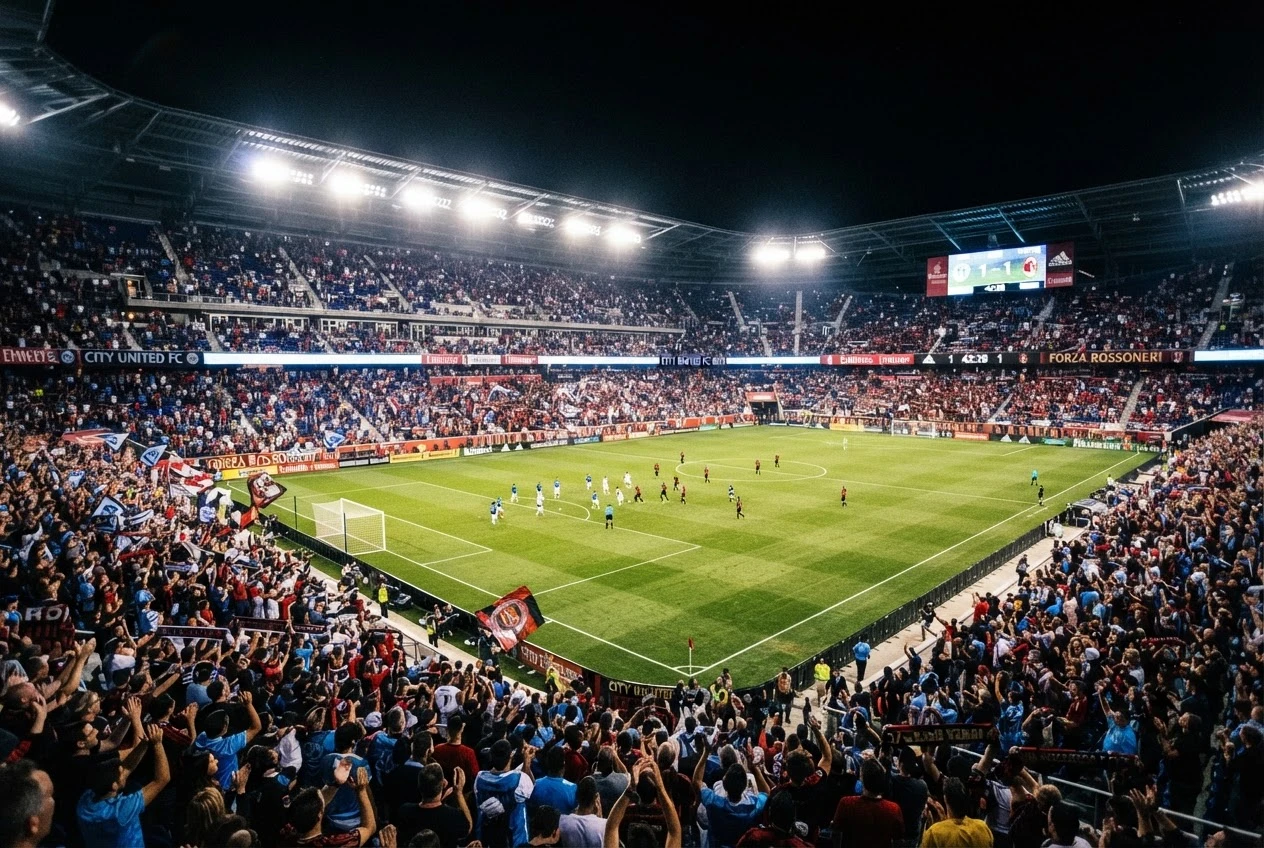
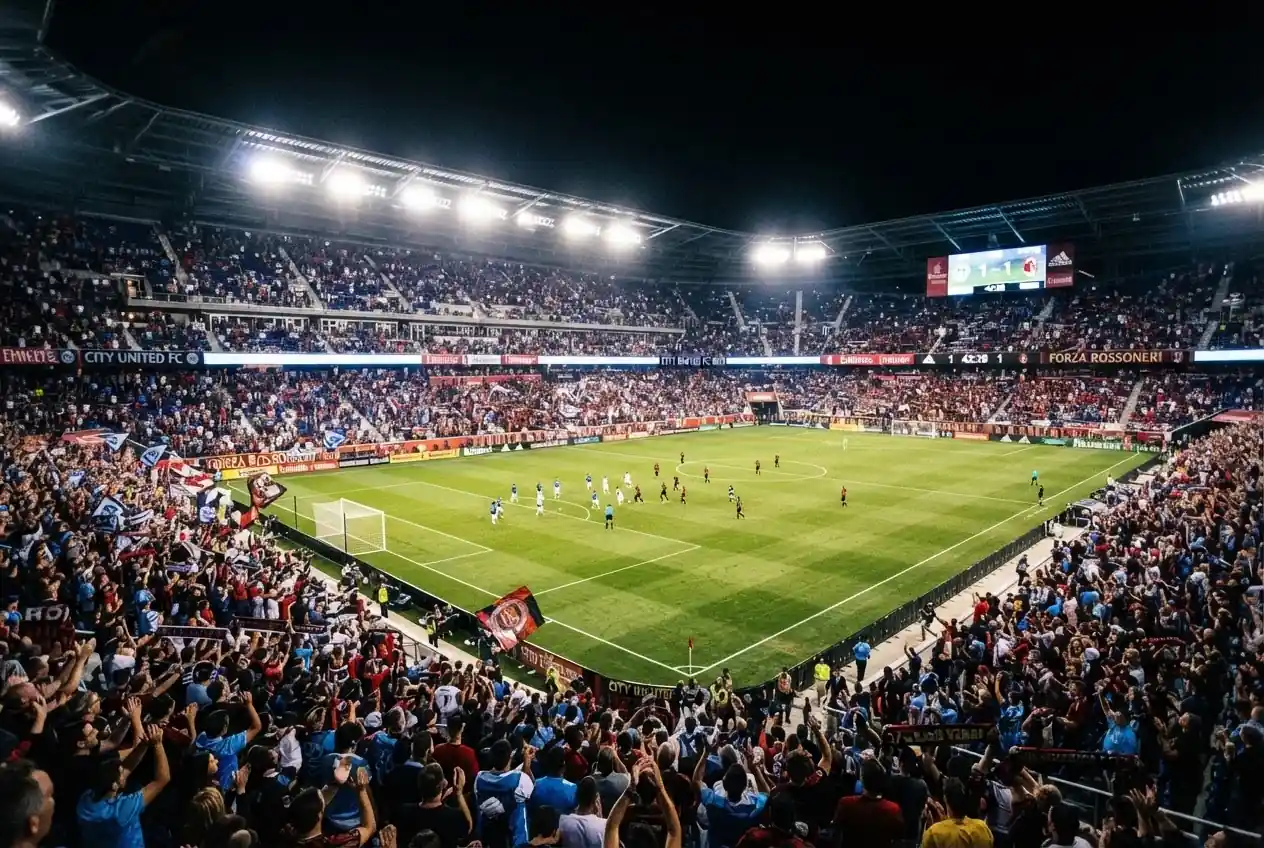
optimized ui

diff --git a/client/src/App.jsx b/client/src/App.jsx
@@ -1,23 +1,27 @@
+import { lazy, Suspense } from "react";
 import { Routes, Route, Navigate } from "react-router-dom";
 import { BookingProvider } from "./context/BookingContext";
 import { ToastProvider } from "./context/ToastContext";
-import EventDetails from "./pages/EventDetails";
-import Home from "./pages/Home";
-import Login from "./components/Auth/Login";
-import DiscoverEvents from "./pages/DiscoverEvents";
-import SeatSelection from "./pages/SeatSelection";
-import Checkout from "./pages/Checkout";
-import BookingSuccess from "./pages/BookingSuccess";
-import MyBookings from "./pages/MyBookings";
-import OrganizerDashboard from "./pages/OrganizerDashboard";
-import CreateEvent from "./pages/CreateEvent";
-import EditEvent from "./pages/EditEvent";
-import MyEvents from "./components/Organizer/MyEvents";
-import OrganizerAnalytics from "./pages/OrganizerAnalytics";
-import OrganizerAttendees from "./pages/OrganizerAttendees";
-import OrganizerDiscounts from "./pages/OrganizerDiscounts";
 import ScrollToTop from "./components/ScrollToTop";
-import NotFound from "./pages/NotFound";
+import LoadingSpinner from "./components/LoadingSpinner";
+
+// Lazy-loaded routes for code splitting
+const Home = lazy(() => import("./pages/Home"));
+const Login = lazy(() => import("./components/Auth/Login"));
+const DiscoverEvents = lazy(() => import("./pages/DiscoverEvents"));
+const EventDetails = lazy(() => import("./pages/EventDetails"));
+const SeatSelection = lazy(() => import("./pages/SeatSelection"));
+const Checkout = lazy(() => import("./pages/Checkout"));
+const BookingSuccess = lazy(() => import("./pages/BookingSuccess"));
+const MyBookings = lazy(() => import("./pages/MyBookings"));
+const OrganizerDashboard = lazy(() => import("./pages/OrganizerDashboard"));
+const CreateEvent = lazy(() => import("./pages/CreateEvent"));
+const EditEvent = lazy(() => import("./pages/EditEvent"));
+const MyEvents = lazy(() => import("./components/Organizer/MyEvents"));
+const OrganizerAnalytics = lazy(() => import("./pages/OrganizerAnalytics"));
+const OrganizerAttendees = lazy(() => import("./pages/OrganizerAttendees"));
+const OrganizerDiscounts = lazy(() => import("./pages/OrganizerDiscounts"));
+const NotFound = lazy(() => import("./pages/NotFound"));
 
 const ProtectedRoute = ({ children, allowedRoles }) => {
   const token = localStorage.getItem("evently_token");
@@ -40,108 +44,110 @@ const App = () => {
       <BookingProvider>
         <ToastProvider>
           <ScrollToTop />
-        <Routes>
-          <Route path="/" element={<Home />} />
-          <Route path="/login" element={<Login />} />
-          <Route path="/signup" element={<Login />} />
-          <Route path="/events">
-            <Route index element={<DiscoverEvents />} />
-            <Route path=":id" element={<EventDetails />} />
-            <Route path=":id/seats" element={<SeatSelection />} />
-            <Route
-              path=":id/seats/checkout"
-              element={
-                <ProtectedRoute>
-                  <Checkout />
-                </ProtectedRoute>
-              }
-            />
-            <Route
-              path=":id/seats/success"
-              element={
-                <ProtectedRoute>
-                  <BookingSuccess />
-                </ProtectedRoute>
-              }
-            />
-          </Route>
+          <Suspense fallback={<LoadingSpinner message="Loading page..." fullScreen={true} />}>
+            <Routes>
+              <Route path="/" element={<Home />} />
+              <Route path="/login" element={<Login />} />
+              <Route path="/signup" element={<Login />} />
+              <Route path="/events">
+                <Route index element={<DiscoverEvents />} />
+                <Route path=":id" element={<EventDetails />} />
+                <Route path=":id/seats" element={<SeatSelection />} />
+                <Route
+                  path=":id/seats/checkout"
+                  element={
+                    <ProtectedRoute>
+                      <Checkout />
+                    </ProtectedRoute>
+                  }
+                />
+                <Route
+                  path=":id/seats/success"
+                  element={
+                    <ProtectedRoute>
+                      <BookingSuccess />
+                    </ProtectedRoute>
+                  }
+                />
+              </Route>
 
-          <Route
-            path="/bookings"
-            element={
-              <ProtectedRoute>
-                <MyBookings />
-              </ProtectedRoute>
-            }
-          />
-          <Route path="/organizer">
-            <Route
-              index
-              element={
-                <ProtectedRoute allowedRoles={["organizer", "admin"]}>
-                  <OrganizerDashboard />
-                </ProtectedRoute>
-              }
-            />
-            <Route
-              path="create"
-              element={
-                <ProtectedRoute allowedRoles={["organizer", "admin"]}>
-                  <CreateEvent />
-                </ProtectedRoute>
-              }
-            />
-            <Route
-              path="edit/:id"
-              element={
-                <ProtectedRoute allowedRoles={["organizer", "admin"]}>
-                  <EditEvent />
-                </ProtectedRoute>
-              }
-            />
-            <Route
-              path="events/edit/:id"
-              element={
-                <ProtectedRoute allowedRoles={["organizer", "admin"]}>
-                  <EditEvent />
-                </ProtectedRoute>
-              }
-            />
-            <Route
-              path="my-events"
-              element={
-                <ProtectedRoute allowedRoles={["organizer", "admin"]}>
-                  <MyEvents />
-                </ProtectedRoute>
-              }
-            />
-            <Route
-              path="analytics"
-              element={
-                <ProtectedRoute allowedRoles={["organizer", "admin"]}>
-                  <OrganizerAnalytics />
-                </ProtectedRoute>
-              }
-            />
-            <Route
-              path="attendees"
-              element={
-                <ProtectedRoute allowedRoles={["organizer", "admin"]}>
-                  <OrganizerAttendees />
-                </ProtectedRoute>
-              }
-            />
-            <Route
-              path="discounts"
-              element={
-                <ProtectedRoute allowedRoles={["organizer", "admin"]}>
-                  <OrganizerDiscounts />
-                </ProtectedRoute>
-              }
-            />
-          </Route>
-          <Route path="*" element={<NotFound />} />
-        </Routes>
+              <Route
+                path="/bookings"
+                element={
+                  <ProtectedRoute>
+                    <MyBookings />
+                  </ProtectedRoute>
+                }
+              />
+              <Route path="/organizer">
+                <Route
+                  index
+                  element={
+                    <ProtectedRoute allowedRoles={["organizer", "admin"]}>
+                      <OrganizerDashboard />
+                    </ProtectedRoute>
+                  }
+                />
+                <Route
+                  path="create"
+                  element={
+                    <ProtectedRoute allowedRoles={["organizer", "admin"]}>
+                      <CreateEvent />
+                    </ProtectedRoute>
+                  }
+                />
+                <Route
+                  path="edit/:id"
+                  element={
+                    <ProtectedRoute allowedRoles={["organizer", "admin"]}>
+                      <EditEvent />
+                    </ProtectedRoute>
+                  }
+                />
+                <Route
+                  path="events/edit/:id"
+                  element={
+                    <ProtectedRoute allowedRoles={["organizer", "admin"]}>
+                      <EditEvent />
+                    </ProtectedRoute>
+                  }
+                />
+                <Route
+                  path="my-events"
+                  element={
+                    <ProtectedRoute allowedRoles={["organizer", "admin"]}>
+                      <MyEvents />
+                    </ProtectedRoute>
+                  }
+                />
+                <Route
+                  path="analytics"
+                  element={
+                    <ProtectedRoute allowedRoles={["organizer", "admin"]}>
+                      <OrganizerAnalytics />
+                    </ProtectedRoute>
+                  }
+                />
+                <Route
+                  path="attendees"
+                  element={
+                    <ProtectedRoute allowedRoles={["organizer", "admin"]}>
+                      <OrganizerAttendees />
+                    </ProtectedRoute>
+                  }
+                />
+                <Route
+                  path="discounts"
+                  element={
+                    <ProtectedRoute allowedRoles={["organizer", "admin"]}>
+                      <OrganizerDiscounts />
+                    </ProtectedRoute>
+                  }
+                />
+              </Route>
+              <Route path="*" element={<NotFound />} />
+            </Routes>
+          </Suspense>
         </ToastProvider>
       </BookingProvider>
     </div>

diff --git a/client/index.html b/client/index.html
@@ -3,14 +3,22 @@
   <meta name="viewport" content="width=device-width, initial-scale=1.0" />
   <title>Evently</title>
 
+  <!-- Preconnect to Google Fonts for zero-latency streaming -->
+  <link rel="preconnect" href="https://fonts.googleapis.com" />
+  <link rel="preconnect" href="https://fonts.gstatic.com" crossorigin />
+  <link
+    href="https://fonts.googleapis.com/css2?family=Inter:wght@400;500;600;700&family=JetBrains+Mono:wght@400;700&family=Plus+Jakarta+Sans:wght@400;500;600;700;800&display=swap"
+    rel="stylesheet"
+  />
+
   <meta
     name="description"
     content="Discover, create and manage events with Evently."
   />
   <meta name="theme-color" content="#ffffff" />
 
-  <link rel="icon" type="image/png" href="/Logo.png" />
-  <link rel="apple-touch-icon" href="/Logo.png" />
+  <link rel="icon" type="image/webp" href="/Logo.webp" />
+  <link rel="apple-touch-icon" href="/Logo.webp" />
 
   <meta property="og:title" content="Evently" />
   <meta
@@ -20,7 +28,7 @@
   <meta property="og:type" content="website" />
   <meta
     property="og:image"
-    content="https://evently-x.vercel.app.com/Logo.png"
+    content="https://evently-x.vercel.app.com/Logo.webp"
   />
   <meta name="twitter:card" content="summary_large_image" />
 </head>

diff --git a/client/vite.config.js b/client/vite.config.js
@@ -16,11 +16,35 @@ export default defineConfig({
       binaryInterval: 300,
       ignored: ["**/node_modules/**", "**/dist/**", "**/.git/**"],
     },
-    host: true, // Also ensures the dev server listens on all IPs
+    host: true,
   },
   resolve: {
     alias: {
       "@": path.resolve(__dirname, "./src"),
+    },
+  },
+  build: {
+    reportCompressedSize: false,
+    chunkSizeWarningLimit: 700,
+    rollupOptions: {
+      output: {
+        manualChunks(id) {
+          if (id.includes("node_modules")) {
+            if (id.includes("react-router-dom") || id.includes("react-dom") || id.includes("/react/")) {
+              return "vendor-react";
+            }
+            if (id.includes("framer-motion")) {
+              return "vendor-motion";
+            }
+            if (id.includes("@stripe")) {
+              return "vendor-stripe";
+            }
+            if (id.includes("lucide-react") || id.includes("react-icons")) {
+              return "vendor-icons";
+            }
+          }
+        },
+      },
     },
   },
 });

diff --git a/client/src/components/Organizer/Sidebar.jsx b/client/src/components/Organizer/Sidebar.jsx
@@ -26,7 +26,7 @@ const Sidebar = () => {
   ];
 
   return (
-    <aside className="w-full lg:w-64 shrink-0 flex flex-col gap-4 lg:gap-6 lg:sticky lg:top-20 z-30 lg:max-h-[calc(100vh-6rem)] lg:overflow-y-auto no-scrollbar">
+    <aside className="w-full lg:w-64 shrink-0 flex flex-col gap-4 lg:gap-6 lg:sticky lg:top-20 z-30 self-start">
       {/* Profile Card */}
       <div className="bg-white rounded-2xl p-3 sm:p-4 border border-neutral-200 shadow-xs flex items-center gap-3 sm:gap-4">
         <img

diff --git a/client/src/components/Auth/Login.jsx b/client/src/components/Auth/Login.jsx
@@ -11,8 +11,8 @@ import {
 import { useState } from "react";
 import { AnimatePresence, motion } from "framer-motion";
 import { useLocation, useNavigate } from "react-router-dom";
-import logo from "../../assets/Logo.png";
-import authHeroImg from "../../assets/AuthHeroImg.png";
+import logo from "../../assets/Logo.webp";
+import authHeroImg from "../../assets/AuthHeroImg.webp";
 import { API_BASE } from "../../utils/api";
 import { useToast } from "../../context/ToastContext";
 

diff --git a/client/src/index.css b/client/src/index.css
@@ -1,9 +1,4 @@
-@import url("https://fonts.googleapis.com/css2?family=Plus+Jakarta+Sans:wght@400;500;600;700;800&display=swap");
 @import "tailwindcss";
-@import "@fontsource/inter";
-@import "@heroui/styles";
-@import "@fontsource/jetbrains-mono/400.css";
-@import "@fontsource/jetbrains-mono/700.css";
 
 body {
   font-family: "Plus Jakarta Sans", "Inter", sans-serif;

diff --git a/client/src/pages/NotFound.jsx b/client/src/pages/NotFound.jsx
@@ -2,7 +2,7 @@ import { useNavigate } from "react-router-dom";
 import { ArrowLeft, Compass } from "lucide-react";
 import Header from "../components/Header";
 import Footer from "../components/Footer";
-import notFound from "../assets/404Notfound.png";
+import notFound from "../assets/404Notfound.webp";
 
 const NotFound = () => {
   const navigate = useNavigate();

diff --git a/client/src/components/Header.jsx b/client/src/components/Header.jsx
@@ -9,7 +9,7 @@ import {
 } from "lucide-react";
 import { Link, useNavigate, useSearchParams } from "react-router-dom";
 import { motion, AnimatePresence } from "framer-motion";
-import logo from "../assets/Logo.png";
+import logo from "../assets/Logo.webp";
 import { useState } from "react";
 
 const Header = () => {

diff --git a/client/src/components/Landing/HeroSection.jsx b/client/src/components/Landing/HeroSection.jsx
@@ -1,5 +1,5 @@
 import SearchBar from "./SearchBar";
-import heroSection1 from "../../assets/heroSection1.jpg";
+import heroSection1 from "../../assets/heroSection1.webp";
 import { useNavigate } from "react-router-dom";
 
 const HeroSection = () => {
